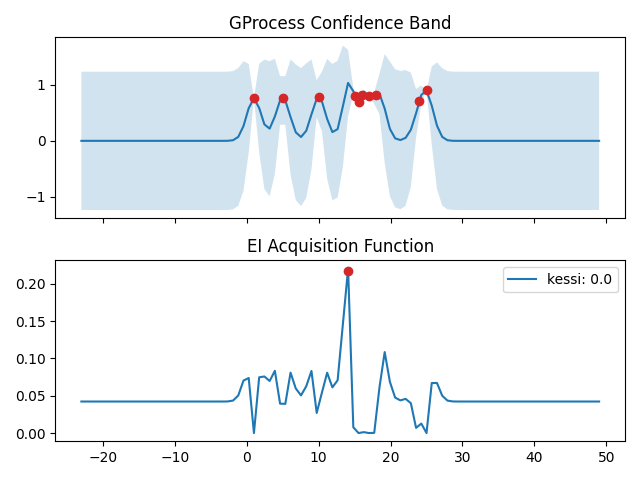
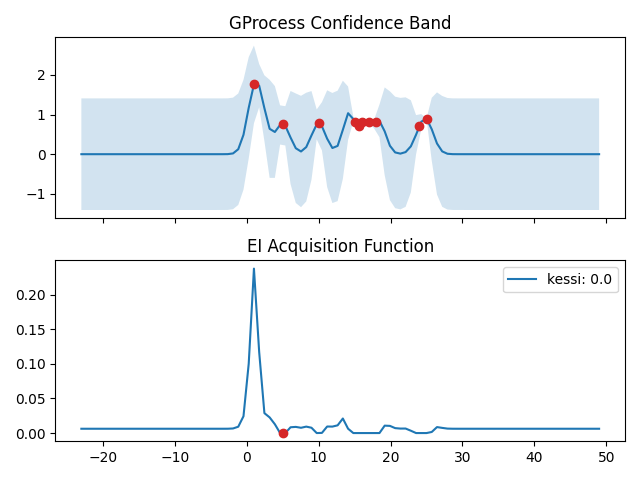
reload mean and var computation in STBO class

diff --git a/optimization.py b/optimization.py
@@ -17,7 +17,7 @@ class UpperConfidenceBound(ZeroGProcess):
     def __init__(self):
         super(UpperConfidenceBound, self).__init__()  # can use data from parent class
 
-    def aux_func(self, current_point, current_gamma=0.9):
+    def aux_func_ucb(self, current_point, current_gamma=0.9):
         """
         Acquisition function: a(x|D_t) = mean(x) + current_gamma * s2(x)
         """
@@ -34,12 +34,12 @@ class UpperConfidenceBound(ZeroGProcess):
 
         return aux_ucb_current[0, 0]
 
-    def auto_grad(self, current_point):
+    def auto_grad_ucb(self, current_point):
         "compute gradient at current_point"
 
         pass 
 
-    def find_NextBest_point(self):
+    def find_NextBest_point_ucb(self):
         "find maximum point based on Acquisition function"
         pass
 
@@ -61,10 +61,10 @@ class UpperConfidenceBound(ZeroGProcess):
         ac_values_lst = []
         if isinstance(gammas, list):
             for gamma in gammas:
-                ac_gamma = [self.aux_func([ele], gamma) for ele in x_draw]
+                ac_gamma = [self.aux_func_ucb([ele], gamma) for ele in x_draw]
                 ac_values_lst.append(ac_gamma)
         elif isinstance(gammas, float):
-            ac_gamma = [self.aux_func([ele], gammas) for ele in x_draw]
+            ac_gamma = [self.aux_func_ucb([ele], gammas) for ele in x_draw]
             ac_values_lst.append(ac_gamma)
             gammas = [gammas]
 
@@ -94,37 +94,28 @@ class ExpectedImprovement(ZeroGProcess):
     def __init__(self):  
         super(ExpectedImprovement, self).__init__()    # can use data from parent class 
 
-    def aux_func(self, current_point, kessi=0.0, zeroCheck=1e-13):
+    def aux_func_ei(self, current_point, kessi=0.0, zeroCheck=1e-13):
         """
         Acquisition function: a(x|D_t) = (mean(x) - y_max + kessi)*F(Z) + sqrt(sigma^2*s2(x))*f(Z)
         Z = (mean(x) - y_max + kessi) / sqrt(sigma^2*s2(x))
         """
-        kernel_Cov_mat = self.compute_kernel_cov(self.X, self.theta)
-        kernel_Vec_mat = self.compute_kernel_vec(self.X, current_point, self.theta)
-        inv_kernel_Cov = np.linalg.inv(kernel_Cov_mat)
 
-        s2_currentA = np.matmul(np.transpose(kernel_Vec_mat), inv_kernel_Cov)
-        s2_currentB = np.matmul(s2_currentA, kernel_Vec_mat)
-        s2_current = self.kernel(current_point, current_point) - s2_currentB   
-        s2_current = s2_current[0, 0]
+        var_current = self.compute_var(current_point)
 
-        if s2_current < zeroCheck:
+        if var_current < zeroCheck:
             aux_ei_current = 0.0
         else:
             y_max = max(self.Y)
             mean_current = self.compute_mean(current_point)
 
-            if self.sigma2 == None:   # sigma2 <= mle of sigma2
-                self.sigma2 = self.compute_mle_sigma2()[0,0]
-            
             Z_denom = mean_current - y_max + kessi
-            Z = Z_denom / np.sqrt(s2_current*self.sigma2)
+            Z = Z_denom / np.sqrt(var_current)
 
-            aux_ei_current = Z_denom*norm.cdf(Z) + np.sqrt(s2_current*self.sigma2)*norm.pdf(Z)
+            aux_ei_current = Z_denom*norm.cdf(Z) + np.sqrt(var_current)*norm.pdf(Z)
 
         return aux_ei_current
 
-    def auto_grad(self, current_point, num_mc=1000, zeroCheck=1e-13):
+    def auto_grad_ei(self, current_point, num_mc=1000, zeroCheck=1e-13):
         "compute gradient at current_point by Monte Carlo method after reparameterization"
         y_max = max(self.Y)
 
@@ -162,7 +153,7 @@ class ExpectedImprovement(ZeroGProcess):
 
         return grad_current_util
 
-    def find_best_from_point(self, init_point, num_step=1000, thres=1e-3, learn_rate=0.1, beta_1=0.9, beta_2=0.999, epslon=1e-8):
+    def find_best_from_point_ei(self, init_point, num_step=1000, thres=1e-3, learn_rate=0.1, beta_1=0.9, beta_2=0.999, epslon=1e-8):
         "find maximum point of Acquisition function from init_point by using ADAM algorithm"
         dim = self.dim
         assert(len(init_point) == dim)
@@ -174,7 +165,7 @@ class ExpectedImprovement(ZeroGProcess):
         point_current = init_point
 
         for t in range(num_step):
-            grad_current = self.auto_grad(point_current)
+            grad_current = self.auto_grad_ei(point_current)
             m_t = beta_1*m_t + (1 - beta_1)*grad_current
             gamma_t = beta_2*gamma_t + (1 - beta_2)*grad_current**2
 
@@ -185,11 +176,11 @@ class ExpectedImprovement(ZeroGProcess):
             point_current_vec = point_current_vec + m_t_BC * learn_rate / np.sqrt(gamma_t_BC + epslon)
             point_current = np.reshape(point_current_vec, newshape=(1, dim)).tolist()
             point_current = point_current[0]
-            aux_current = self.aux_func(point_current)
+            aux_current = self.aux_func_ei(point_current)
 
         return point_current, aux_current
 
-    def find_best_NextPoint(self, init_points=None, num_step=1000, thres=1e-3, learn_rate=0.1, beta_1=0.9, beta_2=0.999, epslon=1e-8):
+    def find_best_NextPoint_ei(self, init_points=None, num_step=1000, thres=1e-3, learn_rate=0.1, beta_1=0.9, beta_2=0.999, epslon=1e-8):
         """ find best next point of Acquisition function by starting from multi-points
             init_points: init_points = experiment points if None,
         """
@@ -199,7 +190,7 @@ class ExpectedImprovement(ZeroGProcess):
         best_points_aux = []
 
         for point_k in init_points:
-            best_point_k, best_aux_k = self.find_best_from_point(point_k, num_step, thres, learn_rate, beta_1, beta_2, epslon)
+            best_point_k, best_aux_k = self.find_best_from_point_ei(point_k, num_step, thres, learn_rate, beta_1, beta_2, epslon)
             best_points_aux.append((best_point_k, best_aux_k))
 
         best_point, best_aux = max(best_points_aux, key=itemgetter(1))
@@ -207,7 +198,7 @@ class ExpectedImprovement(ZeroGProcess):
 
         return best_point, best_aux
 
-    def plot(self, num_points=100, exp_ratio=1, confidence=0.9, kessis=[0.9], highlight_point=None):
+    def plot_ei(self, num_points=100, exp_ratio=1, confidence=0.9, kessis=[0.0], highlight_point=None):
         "plot the acquisition function as well as ZeroGP in a figure with two figs"
         min_point = min(self.X)[0]
         max_point = max(self.X)[0]
@@ -225,10 +216,10 @@ class ExpectedImprovement(ZeroGProcess):
         ac_values_lst = []
         if isinstance(kessis, list):
             for kessi in kessis:
-                ac_kessi = [self.aux_func([ele], kessi) for ele in x_draw]
+                ac_kessi = [self.aux_func_ei([ele], kessi) for ele in x_draw]
                 ac_values_lst.append(ac_kessi)
         elif isinstance(kessis, float):
-            ac_kessi = [self.aux_func([ele], kessis) for ele in x_draw]
+            ac_kessi = [self.aux_func_ei([ele], kessis) for ele in x_draw]
             ac_values_lst.append(ac_kessi)
             kessis = [kessis]
 
@@ -253,7 +244,7 @@ class ExpectedImprovement(ZeroGProcess):
         return 0
 
 
-class ShapeTransferBO(ZeroGProcess):
+class ShapeTransferBO(ExpectedImprovement, UpperConfidenceBound):
     """
     class ShapeTransferBO:
     
@@ -261,45 +252,61 @@ class ShapeTransferBO(ZeroGProcess):
     def __init__(self):
         super(ShapeTransferBO, self).__init__()
         self.zeroGP1 = None
+        self.diffGP = None
 
     def build_task1_gp(self, file_exp_task1):
         "build ZeroGProcess for task1 with known experiment points"
         zeroGP1 = ZeroGProcess()
         zeroGP1.get_data_from_file(file_exp_task1)
+        assert(len(zeroGP1.X) == len(zeroGP1.Y))
+
         self.zeroGP1 = zeroGP1
 
         return 0
 
-    def build_diff_gp(self, file_exp_task2):
+    def build_diff_gp(self):
         "build ZeroGProcess on difference between task2 and task1_gp"
-        
+
         diffGP = ZeroGProcess()
-        diffGP.get_data_from_file(file_exp_task2)
-        
-        assert(len(diffGP.X) == len(diffGP.Y))
+        assert(len(self.X) == len(self.Y))
 
         # compute difference between task2 and task1_gp
-        X_task2 = diffGP.X
-        Y_task2 = diffGP.Y
+        X_task2 = self.X
+        Y_task2 = self.Y
 
-        diff_X = X_task2
         diff_Y = []
 
         for point, y_task2 in zip(X_task2, Y_task2):
             mean_GP1_point = self.zeroGP1.compute_mean(point)
             diff_y_point = y_task2 - mean_GP1_point
             diff_Y.append(diff_y_point)
-    
+        
         diffGP.Y = diff_Y
-    
-        return 0
-
-    def aux_func_ei(self, current_point, kessi=0.0, zeroCheck=1e-13):
-        "Acquisition function: a(x|D2_t, D1) = (mean_GP1(x) + mean_diffGP(x) - y2_max + kessi)"
-
-    def auto_grad_ei():
+        diffGP.X = self.X
+        self.diffGP = diffGP
 
         return 0
+
+    def compute_var(self, current_point, zeroCheck=1e-13):
+        "compute the variance value at current_point"
+        var_GP1 = self.zeroGP1.compute_var(current_point, zeroCheck)
+        var_diffGP = self.diffGP.compute_var(current_point, zeroCheck)
+        var_current = var_GP1 + var_diffGP
+
+        if var_current < zeroCheck:
+            return 0.0
+
+        return var_current
+
+    def compute_mean(self, current_point):
+        "compute the mean value of GP1 + diffGP at current_point"
+        mean_GP1 = self.zeroGP1.compute_mean(current_point)
+        mean_diffGP = self.diffGP.compute_mean(current_point)
+
+        mean_current = mean_GP1 + mean_diffGP
+
+        return mean_current
+
 
 
 class BiasCorrectedBO(ZeroGProcess):
@@ -320,8 +327,27 @@ if __name__ == "__main__":
 
     gamma = 0.9
     x1 = [1.5]
-    print("UCB({:.2f}) = {:.2f}".format(x1[0], UCB.aux_func(x1, gamma)))
+    print("UCB({:.2f}) = {:.2f}".format(x1[0], UCB.aux_func_ucb(x1, gamma)))
     x2 = [10.4]
-    print("UCB({:.2f}) = {:.2f}".format(x2[0], UCB.aux_func(x2, gamma)))
+    print("UCB({:.2f}) = {:.2f}".format(x2[0], UCB.aux_func_ucb(x2, gamma)))
 
     #UCB.plot(gammas=[0.8, 0.9, 1])
+
+    # Test STBO 
+    STBO = ShapeTransferBO()
+    STBO.get_data_from_file("./data/experiment_points_task2.tsv")
+    STBO.build_task1_gp("./data/experiment_points_task1.tsv")
+    STBO.build_diff_gp()
+
+    print(STBO.X)
+    print(STBO.Y)
+
+    print(STBO.zeroGP1.X)
+    print(STBO.zeroGP1.Y)
+
+    print(STBO.diffGP.X)
+    print(STBO.diffGP.Y)
+
+    x1 = [1.5]
+    print(STBO.aux_func_ei(x1))
+    STBO.plot_ei(highlight_point=[5, STBO.aux_func_ei([5])])

diff --git a/gp.py b/gp.py
@@ -115,6 +115,7 @@ class ZeroGProcess:
         inv_kernel_Cov = np.linalg.inv(kernel_Cov_mat)
 
         sigma2_hat_A = np.matmul(np.matrix(self.Y), inv_kernel_Cov)
+        self.num_points = len(self.Y)
         sigma2_hat = np.matmul(sigma2_hat_A, response_vec) / self.num_points
 
         return sigma2_hat
@@ -148,6 +149,18 @@ class ZeroGProcess:
 
         return grad_mean
 
+    def compute_s2(self, current_point):
+        "compute the s^2(x) at current_point"
+        kernel_Cov_mat = self.compute_kernel_cov(self.X, self.theta)
+        kernel_Vec_mat = self.compute_kernel_vec(self.X, current_point, self.theta)
+        inv_kernel_Cov = np.linalg.inv(kernel_Cov_mat)
+
+        s2_currentA = np.matmul(np.transpose(kernel_Vec_mat), inv_kernel_Cov)
+        s2_currentB = np.matmul(s2_currentA, kernel_Vec_mat)
+        s2_current = self.kernel(current_point, current_point) - s2_currentB
+
+        return s2_current[0, 0]
+
     def compute_var(self, current_point, zeroCheck=1e-13):
         "compute the variance value at current_point"
         kernel_Cov_mat = self.compute_kernel_cov(self.X, self.theta)
@@ -164,8 +177,8 @@ class ZeroGProcess:
         else:
             var_current = self.sigma2 * s2_current
 
-            if var_current < zeroCheck: # avoid negative variance (negative but close to zero)
-                return 0.0
+        if var_current[0,0] < zeroCheck: # avoid negative variance (negative but close to zero)
+            return 0.0
 
         return var_current[0, 0]
 

diff --git a/main.py b/main.py
@@ -16,10 +16,10 @@ if __name__ == "__main__":
 
     kessi = 15
     x1 = [14]
-    print("EI({:.2f}) = {:.2f}".format(x1[0], EI.aux_func(x1, kessi)))
+    print("EI({:.2f}) = {:.2f}".format(x1[0], EI.aux_func_ei(x1, kessi)))
     x2 = [10.4]
-    print("EI({:.2f}) = {:.2f}".format(x2[0], EI.aux_func(x2, kessi)))
+    print("EI({:.2f}) = {:.2f}".format(x2[0], EI.aux_func_ei(x2, kessi)))
 
     start_points = [[12], [3], [13], [23]]
-    next_point, next_point_aux = EI.find_best_NextPoint(start_points, learn_rate=0.5, num_step=10)
-    EI.plot(kessis=[0.0], highlight_point=[next_point, next_point_aux])
+    next_point, next_point_aux = EI.find_best_NextPoint_ei(start_points, learn_rate=0.5, num_step=10)
+    EI.plot_ei(kessis=[0.0], highlight_point=[next_point, next_point_aux])
